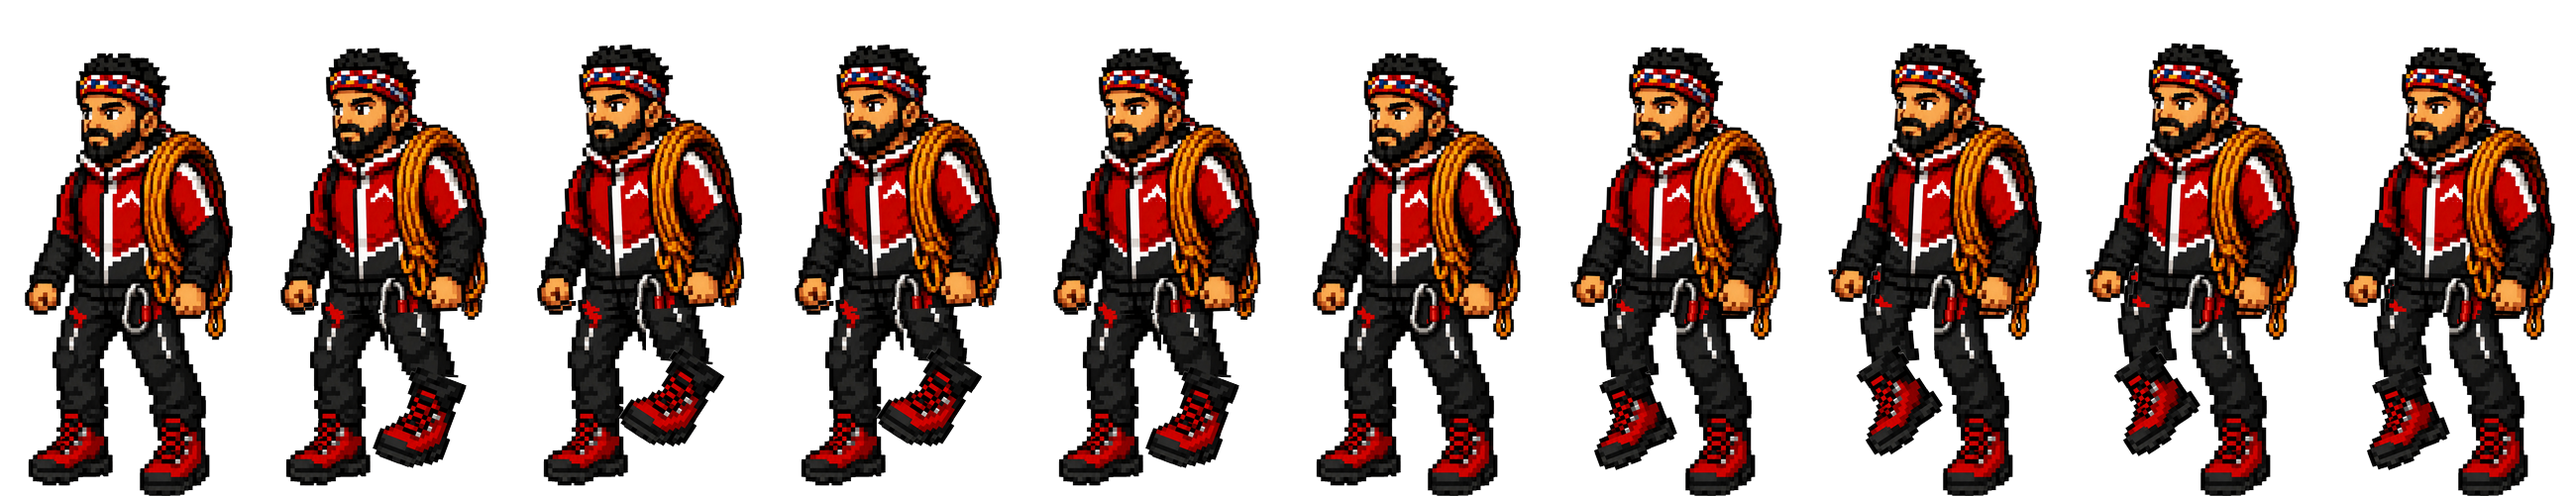
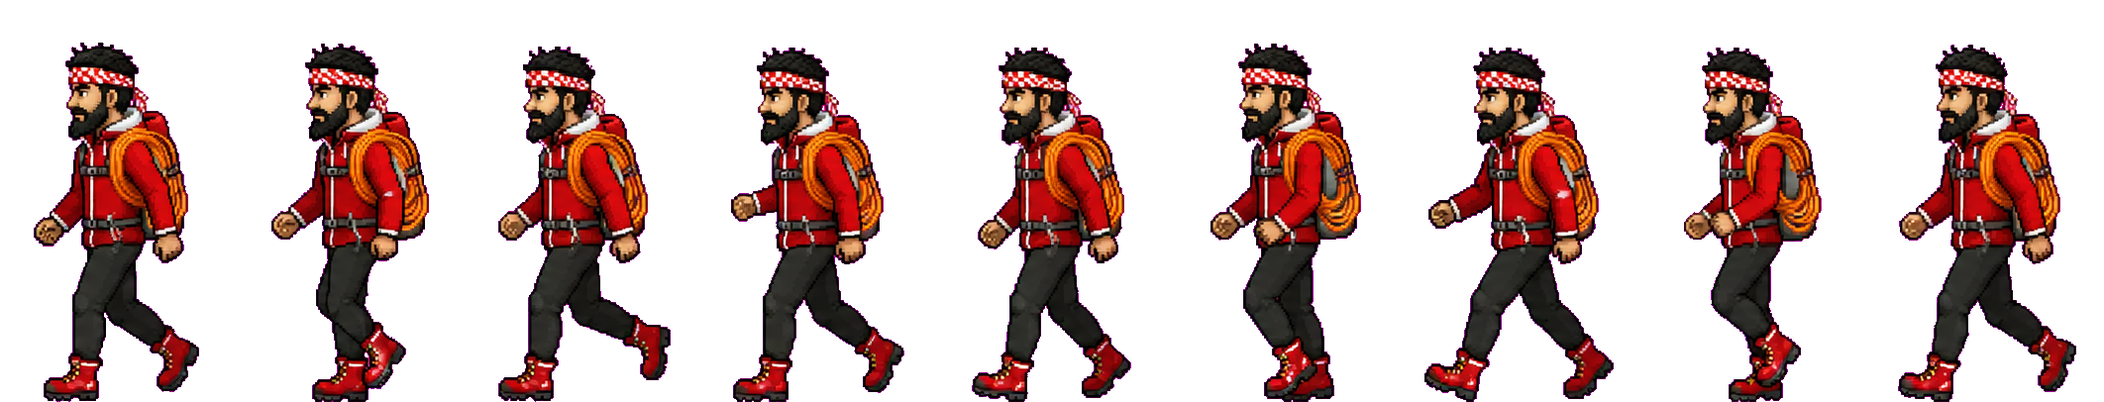
Character: new full-body walk + matching idle pose
- Rebuild character_walk.png: new 9-frame walk cycle with full-body
  motion (striding legs, swinging arms, bobbing torso). Mirrored to the
  engine's left-facing convention so it no longer plays reversed; set
  WALK_FRAMES 10 -> 9.
- Replace character.png: new standing/idle sprite (side-on, both feet
  planted) matching the walk character, so start/stop no longer shows the
  old art.
- Bump character_walk.png?v=6, character.png?v=4, service worker to
  abushakra-v70.

diff --git a/index.html b/index.html
@@ -140,8 +140,8 @@
    never crashes.
    ============================================================= */
 const ASSETS = {
-  player:     "character.png",
-  walk:       "character_walk.png?v=4",   // 10-frame walk-cycle sprite sheet (bump ?v on regen)
+  player:     "character.png?v=4",   // standing/idle sprite — both feet planted, faces LEFT (bump ?v on regen)
+  walk:       "character_walk.png?v=6",   // 9-frame walk-cycle sprite sheet (art faces LEFT; bump ?v on regen)
   enemy:      "enemy.png",              // static fallback
   enemySnake: "enemy_snake.png?v=1",    // single side-on snake; slither is procedural (Level 1)
   enemyBear:  "enemy_bear.png?v=1",     // side-on grizzly (static fallback)
@@ -349,7 +349,7 @@ const PIT_FALL_DEPTH = 20;     // px below GROUND_Y you must drop for a fall to 
 
 // Sprite sizes (match cropped art aspect ratios).
 const PLAYER_W = 30, PLAYER_H = 62;
-const WALK_FRAMES = 10;  // frames in character_walk.png (one full 2-step loop)
+const WALK_FRAMES = 9;   // frames in character_walk.png (one full 2-step loop)
 // Each walk cell is padded (headroom + side room for body bob/rock/sway); these
 // fractions must match gen_walk.py so the body draws at the standing-sprite scale.
 const WALK_PAD_X = 0.119, WALK_PAD_Y = 0.120;

diff --git a/sw.js b/sw.js
@@ -1,5 +1,5 @@
 // Offline app-shell cache. Bump CACHE when files change to refresh clients.
-const CACHE = "abushakra-v68";
+const CACHE = "abushakra-v70";
 const ASSETS = [
   "./",
   "./index.html",
